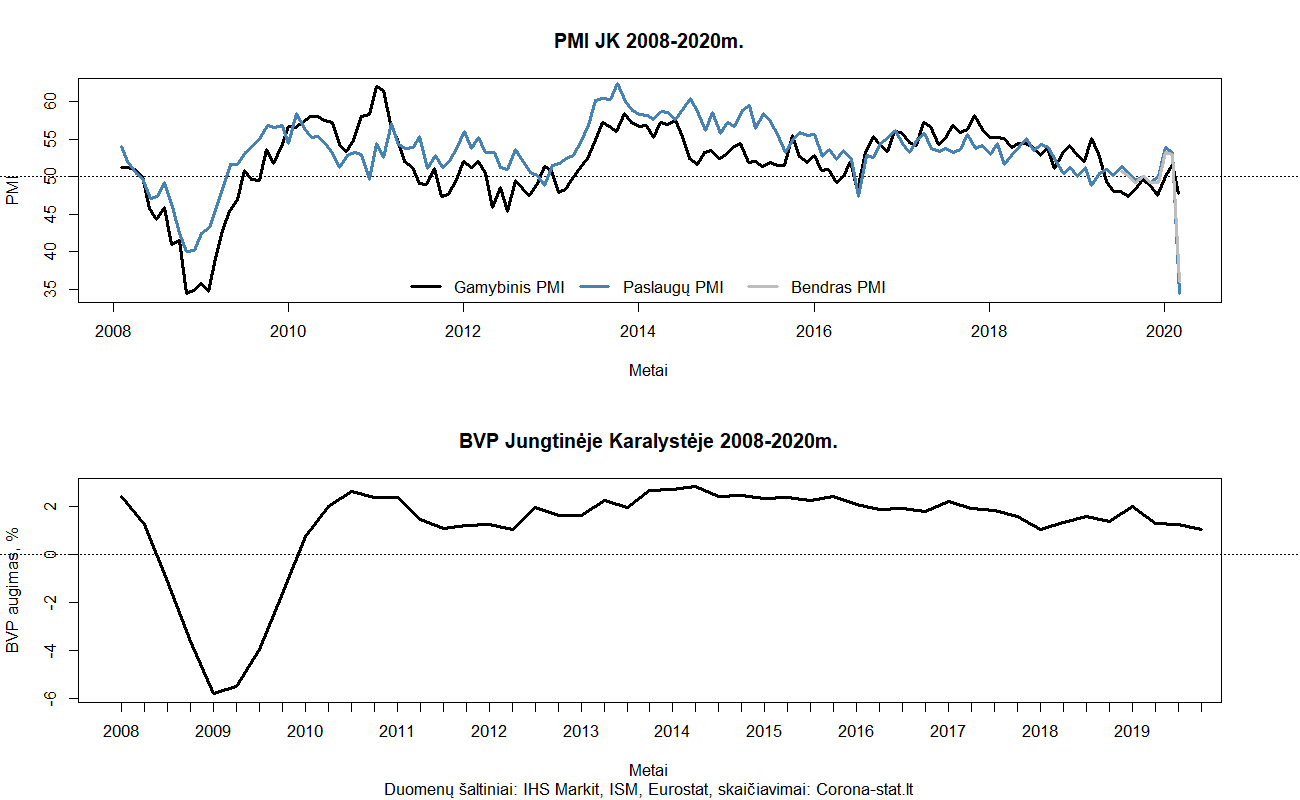
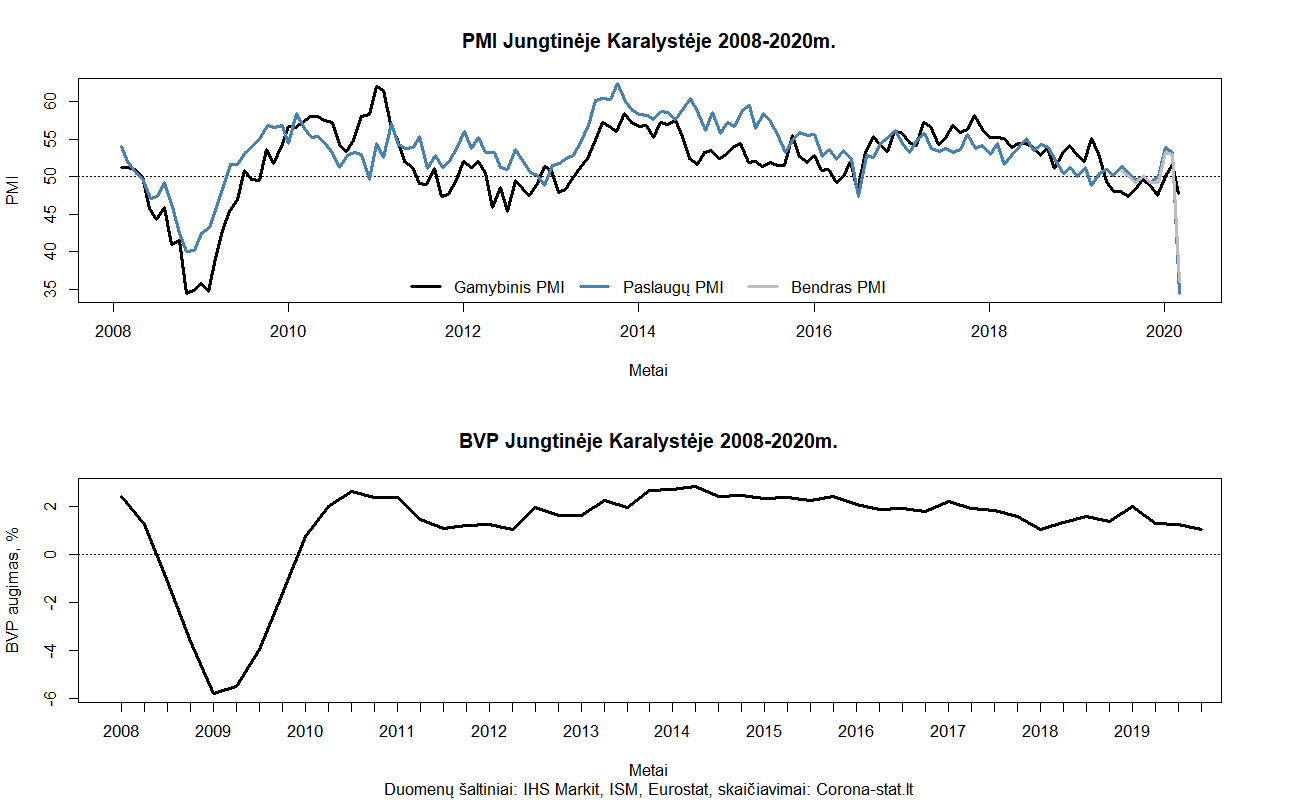
patvarkyti grafikeliai

Changed region(s): [[0.3385, 0.0312, 0.6462, 0.0625]]

diff --git a/public/2020/04/19/verslo-lukesciai-uzsienio-rinkose-ka-jie-reiskia-lietuvai/index.html b/public/2020/04/19/verslo-lukesciai-uzsienio-rinkose-ka-jie-reiskia-lietuvai/index.html
@@ -115,8 +115,8 @@
                         <div class="content">
                             <p><strong>Koronaviruso pandemija privertė daugelį šalių reaguoti griežtomis priemonėmis - ribojant fizinį (socialinį) kontaktą buvo siekiama mažinti spartaus viruso plitimo tikimybę. Uždarytos parduotuvės, paslaugos, atšaukti renginiai bei kelionės atsilieps Lietuvos ekonomikai ne tik tiesiogiai, bet ir per sumažėjusią užsienio paklausą prekėms ir paslaugoms Lietuvos eksporto rinkose. Šiuo metu, kai dar nėra pakankamai patikimų statistinių duomenų, verslo lūkesčių rodikliai tampa pirmaisiais duomenimis, nusakančiais ko galima tikėtis. Tad šiame komentare apie verlso lūkesčius pagrindinėse Lietuvos eksporto rinkose.</strong></p>
 <h1 id="įvadas">Įvadas</h1>
-<p>Lietuvoje, palyginus su kitomis ES šalimis, COVID19 viruso paplitimas buvo ganėtinai ribotas. Vertinant žinomų užsikrėtimų skaičių tenkantį 100.000 gyventojų - Lietuva yra 25-oje vietoje tarp ES šalių.</p>
-<p><img src="" alt="bar chart infections /pop"></p>
+<p>Lietuvoje, palyginus su kitomis ES šalimis, COVID19 viruso paplitimas buvo ganėtinai ribotas. Vertinant žinomų užsikrėtimų skaičių tenkantį 100.000 gyventojų - Lietuva yra 26-oje vietoje tarp ES šalių.</p>
+<p><img src="/post/2020-04-18-verslo-lukesciai-uzsienio-rinkose/uzsikretimai.png" alt="1-as grafikas"></p>
 <p>Lietuvoje, kaip ir kitose šalyse, politikai kartu su epidemiologais ir ekonomistais bando rasti kompromisą - kaip išsaugoti gyvybes, bet nesunaikinti ekonomikos, tad beveik mėnesio trukusio griežto karantino sąlygos pradedamos lengvinti daugelyje šalių. Netrukus pradės veikti parduotuvės, tam tikros paslaugos. Nepaisant to, šokas ekonomikai buvo labai stiprus. Tarptautinės institucijos (TVF, OECD, Pasaulio bankas), Europos komisija bei politikai ne retai rinkosi griežtą retoriką ir viruso plitimą net prilygino “karui”. Karantinas, verslų uždarymai privertė politikus imtis ambicingų ekonomikos skatinimų priemonių, tačiau nepaisant to, panašu, jog daugelyje šalių recesijos išvengti nepavyks. Atsižvelgiant į tai, jog Lietuvos ekonomika yra maža ir atvira, t.y. orientuota į užsienio prekybą šalis  ir siekiant geriau nuspėti, ko galima tikėtis lietuvos eksportuotojams, reikia stebėti lietuvos eksporto rinkų raidą. Deja, dauguma statistinių rodiklių, tokių kaip mažmeninė apyvarta, pramonės produkcija, bendrojo vidaus produkto (BVP) pirmi įverčiai vėluoja  apie porą mėnesių. Siekiant matyti situaciją čia ir dabar ar ją bent aproksimuoti, gali būti prasminga analizuoti verslo lūkesčių rodiklius. Šiame analitiniame komentare apie Lietuvos ekonomikos atvirumą, apie vieną dažniausiai naudojamų verslo lūkesčio indeksų - PMI bei šio rodiklio reikšmes keliose pagrindinėse Lietuvos eksporto rinkose.</p>
 <h1 id="lietuva---maža-ir-labai-atvira-ekonomika">Lietuva - maža ir labai atvira ekonomika</h1>
 <p>Ekonominis valstybių atvirumas skaičiuojamas kaip santykis tarp eksportuotų ir importuotų prekių vertės sumos ir bendrojo vidaus produkto (BVP). 2019 metų duomenimis, Lietuvos ekonomikos atvirumas buvo 151 proc. BVP. Palyginimui Estijos atvirumas siekė - 141 proc., Latvijos - 120 proc., o Europos sąjungos (ES28) vidurkis - 89.8 proc (žr.2-ą grafiką).</p>
@@ -199,6 +199,7 @@ Bendras PMI indeksas atitinkamai nukrito 15.7 punktų nuo 51.2 iki 35.</p>
 <p>Paslaugų sektorius sureagavo greičiau - paskutiniais duomenimis PMI krito nuo 53.2 iki 34.5. Jungtinės Karalystės ekonomikos sistema ypač priklausoma nuo paslaugų sektoriaus. Šalies paslaugų sektorius yra antroje vietoje tarp Europos ekonominės erdvės valstybių pagal sukuriama BVP vertę (80%).</p>
 <p>Bendras PMI fiksavo 17 punktų kritimą nuo 53 iki 36.</p>
 <p>Mažesnė gamyba ir vidinė paklausa atsilieps ir Lietuvos ekonomikai, kuri poveikį pajus ne tik dėl pagrindinių prekių eksporto mažėjimo, tačiau ir dėl kito svarbaus veiksnio - Lietuvos emigrantų piniginių perlaidų į Lietuvą sumažėjimo.</p>
+<p><img src="/post/2020-04-18-verslo-lukesciai-uzsienio-rinkose/UK.png" alt="11-as grafikas"></p>
 <h1 id="epilogas">Epilogas</h1>
 <p>Verslo lūkesčiai užsienio rinkose aiškiai signalizuoja, jog virusas ekonomikai kirto skaudžiai, o pasekmės bus jaučiamos ilgai. Situacija pagrindinėse eksporto rinkose rodo žymų paklausos kritimą. Didžioji ekonomikos dalis - paslaugų sektorius - visoje Europoje sustojo ir nors pramonė kovo mėnesį dar laikėsi, tačiau aišku, jog gilėjanti krizė ir paklausos mažėjimas artimiausiu metu skaudžiai palies ir gamybą.</p>
 <p>Gegužės mėnesį besitęsiant visuotiniam karantinui, matysime vis gilėjančią krizę, o nuotaikos nesikeičiant Eurozonos BVP antrąjį ketvirtį, palyginus su tuo pačiu ketvirčiu prieš metus, <a href="https://cdn.ihsmarkit.com/www/pdf/0420/Week-Ahead-20-04-17.pdf">gali trauktis ir iki -5.6%</a>, kas reikštų dvigubai gilesnį recesijos piką, nei 2008-2009m. finansinės krizės metu. Lietuvai tarptautinės prekybos smukimas turės stiprų poveikį, jau dabar matome dėl sumažėjusios užsienio paklausos veiklos nebevykdančias įmones, tai atitinkamai atsilieps ir vidaus vartojimui, o tolimesnė krizė užsienio rinkose prisidės ir prie sumažėjusių tiesioginių užsienio investicijų bei piniginių perlaidų. Europos sąjungos realiajam BVP 2020m susitraukus 1%, <a href="https://www.verslilietuva.lt/wp-content/uploads/2020/03/2020.03.23_PROGNOZE_COVID_final.pdf">Lietuvos eksportas nukentėtų apie 1.5mlrd eurų</a>, kas sudaro apie 3% Lietuvos BVP. Gilesnės krizės atveju ES ekonomikai susitraukus 5-6%, Lietuva patirtų apie 11.2% BVP (5.4 mlrd eurų) siekančius nuostolius.</p>

diff --git a/content/post/2020-04-19-verslo-lukesciai-uzsienio-rinkose/2020-04-19-verslo-lukesciai-uzsienio-rinkose-ka-jie-reiskia-lietuvai.md b/content/post/2020-04-19-verslo-lukesciai-uzsienio-rinkose/2020-04-19-verslo-lukesciai-uzsienio-rinkose-ka-jie-reiskia-lietuvai.md
@@ -164,6 +164,8 @@ Bendras PMI fiksavo 17 punktų kritimą nuo 53 iki 36.
 
 Mažesnė gamyba ir vidinė paklausa atsilieps ir Lietuvos ekonomikai, kuri poveikį pajus ne tik dėl pagrindinių prekių eksporto mažėjimo, tačiau ir dėl kito svarbaus veiksnio - Lietuvos emigrantų piniginių perlaidų į Lietuvą sumažėjimo. 
 
+![11-as grafikas](/post/2020-04-18-verslo-lukesciai-uzsienio-rinkose/UK.png)
+
 
 # Epilogas
 
